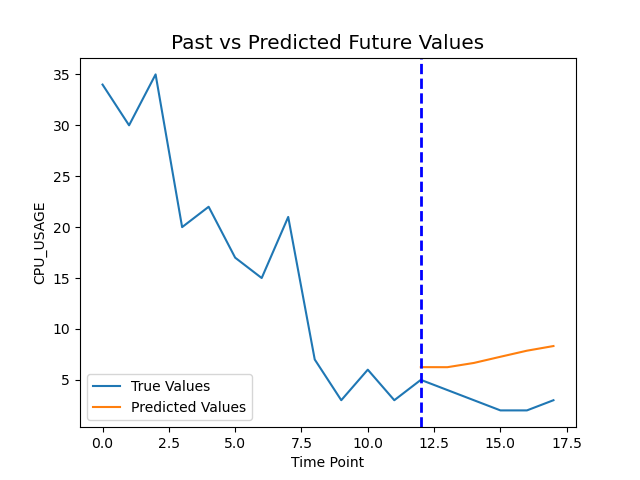
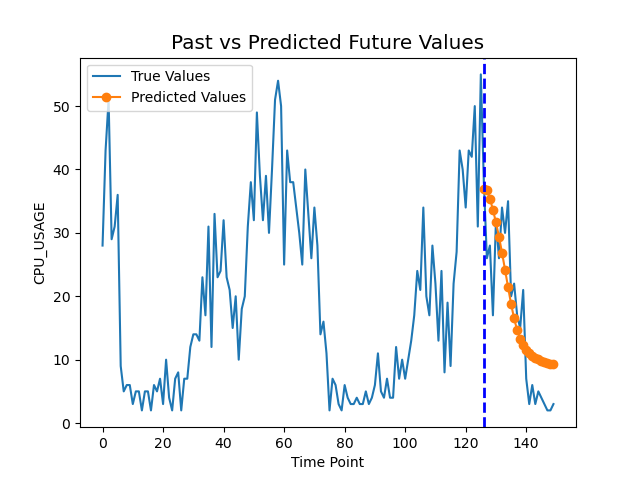
增加更好的seq2seq模型

diff --git a/exp/exp_seq2seq.py b/exp/exp_seq2seq.py
@@ -11,9 +11,10 @@ from tqdm import tqdm
 
 from data.data_loader import Dataset_Custom, Dataset_Pred
 from exp.exp_basic import Exp_Basic
-from models.seq2seq.seq2seq_net import Seq2Seq
+from models.seq2seq.en_dn_wrapper_net import EncoderDecoderWrapper
 from utils.losses import mape_loss, mase_loss, smape_loss
 from utils.metrics import metric
+from utils.plot_tools import plot_loss_data
 from utils.tools import EarlyStopping, adjust_learning_rate
 
 
@@ -23,7 +24,8 @@ class Exp_Seq2Seq(Exp_Basic):
 
     def _build_model(self):
         args = self.args
-        model = Seq2Seq(args.feature_size, args.hidden_size, args.num_layers, args.output_size)
+        model = EncoderDecoderWrapper(args.feature_size, args.output_size, args.hidden_size, args.num_layers,
+                                      args.pre_len, args.timestep)
         return model
 
     def _load_data(self):
@@ -32,7 +34,7 @@ class Exp_Seq2Seq(Exp_Basic):
             args=args,
             data_path=args.data_path,
             flag="train",
-            size=[args.timestep, args.feature_size, args.output_size],
+            size=[args.timestep, args.feature_size, args.pre_len],
             features=args.features,
             target=args.target,
             scale_type=args.scale_type,
@@ -42,7 +44,7 @@ class Exp_Seq2Seq(Exp_Basic):
             args=args,
             data_path=args.data_path,
             flag="test",
-            size=[args.timestep, args.feature_size, args.output_size],
+            size=[args.timestep, args.feature_size, args.pre_len],
             features=args.features,
             target=args.target,
             scale_type=args.scale_type,
@@ -52,7 +54,7 @@ class Exp_Seq2Seq(Exp_Basic):
             args=args,
             data_path=args.data_path,
             flag="pred",
-            size=[args.timestep, args.feature_size, args.output_size],
+            size=[args.timestep, args.feature_size, args.pre_len],
             features=args.features,
             target=args.target,
             scale_type=args.scale_type,
@@ -124,6 +126,8 @@ class Exp_Seq2Seq(Exp_Basic):
         model_optim = self._select_optimizer()
         loss_function = self._select_loss_function()
 
+        results_loss = []
+
         for epoch in range(self.args.epochs):
             iter_count = 0
             train_loss = []
@@ -134,18 +138,24 @@ class Exp_Seq2Seq(Exp_Basic):
                 iter_count += 1
 
                 model_optim.zero_grad()
+                if i == 0:
+                    print("batch_x shape: ", batch_x.shape)
+                    print("batch_y shape: ", batch_y.shape)
                 # batch_x shape: [batch_size, timestep, feature_size]
-                # batch_y shape: [batch_size, pred_len]
+                # batch_y shape: [batch_size, pred_len, 1]
                 pred, true = self._process_one_batch(train_data_set, batch_x, batch_y)
-                # pred shape: [batch_size, pred_len]
-                # true shape: [batch_size, pred_len]
+                if i == 0:
+                    print("pred shape: ", pred.shape)
+                    print("true shape: ", true.shape)
+                # pred shape: [batch_size, pred_len, 1]
+                # true shape: [batch_size, pred_len, 1]
                 loss = loss_function(pred, true)
                 train_loss.append(loss.item())
 
                 if (i + 1) % 100 == 0:
                     print("\niters: {0}, epoch: {1} | loss: {2:.7f}".format(i + 1, epoch + 1, loss.item()))
                     speed = (time.time() - time_now) / iter_count
-                    left_time = speed * ((self.args.train_epochs - epoch) * train_steps - i)
+                    left_time = speed * ((self.args.epochs - epoch) * train_steps - i)
                     print('\tspeed: {:.4f}s/iter; left time: {:.4f}s'.format(speed, left_time))
                     iter_count = 0
                     time_now = time.time()
@@ -156,6 +166,8 @@ class Exp_Seq2Seq(Exp_Basic):
             print("Epoch: {} cost time: {}".format(epoch + 1, time.time() - epoch_time))
             train_loss = np.average(train_loss)
             test_loss = self.vali(test_data_set, test_loader, loss_function)
+
+            results_loss.append(train_loss)
 
             print("Epoch: {0}, Steps: {1} | Train Loss: {2:.7f} Test Loss: {3:.7f}".format(
                 epoch + 1, train_steps, train_loss, test_loss))
@@ -171,14 +183,19 @@ class Exp_Seq2Seq(Exp_Basic):
             if hasattr(torch.cuda, 'empty_cache'):
                 torch.cuda.empty_cache()
 
+        plot_loss_data(results_loss, self.args.loss_name)
+
         best_model_path = path + '/' + 'checkpoint.pth'
         self.model.load_state_dict(torch.load(best_model_path))
 
         return self.model
 
-    def test(self, setting):
+    def test(self, setting, load=False):
         test_data_set, test_loader = self._get_data(flag='test')
-
+        if load:
+            path = os.path.join(self.args.checkpoints, setting)
+            best_model_path = path + '/' + 'checkpoint.pth'
+            self.model.load_state_dict(torch.load(best_model_path))
         self.model.eval()
 
         preds: list = []
@@ -229,15 +246,19 @@ class Exp_Seq2Seq(Exp_Basic):
         true_show_data: np.ndarray
         for i, (batch_x, batch_y) in enumerate(tqdm(pred_loader)):
             history_data: np.ndarray = pred_data.inverse_transform_y(batch_x[:, :, 0].reshape(args.timestep, 1))
+            print(history_data.shape)
             pred, true = self._process_one_batch(pred_data, batch_x, batch_y)
-            # pred.shape [batchSize=1, pre_len]
+            # pred.shape [batchSize=1, pre_len, 1]
+            pred = pred[0]
             pred = pred_data.inverse_transform_y(pred)
             # pred.shape [pre_len, 1]
+            true = true[0]
             true = pred_data.inverse_transform_y(true)
-            # print(pred)
+            # true.shape [pre_len, 1]
 
             # 真实展示的数据
-            true_show_data = np.concatenate([history_data, true], axis=0)
+            true_show_data = np.concatenate([history_data[:, -1], true[:, -1]], axis=0)
+            # true_show_data.shape [timestep+pre_len]
             break
 
         # 将预测结果导出到本地
@@ -257,8 +278,8 @@ class Exp_Seq2Seq(Exp_Basic):
             # print("pred data: \n", pred)
             plt.plot(range(len(true_show_data)), true_show_data,
                      label='True Values')
-            plt.plot(range(len(true_show_data) - args.pre_len, len(true_show_data)), pred,
-                     label='Predicted Values')
+            plt.plot(range(len(true_show_data) - args.pre_len, len(true_show_data)), pred[:, -1],
+                     marker='o', label='Predicted Values')
         else:
             print('未实现多元预测多元的可视化')
             return

diff --git a/models/seq2seq/en_dn_wrapper_net.py b/models/seq2seq/en_dn_wrapper_net.py
@@ -1,0 +1,85 @@
+import torch
+import torch.nn.functional as F
+from torch import nn
+
+
+class RNNEncoder(nn.Module):
+    def __init__(self, rnn_num_layers=1, input_feature_len=1, sequence_len=168, hidden_size=100, bidirectional=False):
+        super().__init__()
+        self.sequence_len = sequence_len
+        self.hidden_size = hidden_size
+        self.input_feature_len = input_feature_len
+        self.num_layers = rnn_num_layers
+        self.rnn_directions = 2 if bidirectional else 1
+        self.gru = nn.GRU(
+            num_layers=rnn_num_layers,
+            input_size=input_feature_len,
+            hidden_size=hidden_size,
+            batch_first=True,
+            bidirectional=bidirectional
+        )
+
+    def forward(self, input_seq):
+        ht = torch.zeros(self.num_layers * self.rnn_directions, input_seq.size(0), self.hidden_size, device='cuda')
+        if input_seq.ndim < 3:
+            input_seq.unsqueeze_(2)
+        gru_out, hidden = self.gru(input_seq, ht)
+        if self.rnn_directions > 1:
+            gru_out = gru_out.view(input_seq.size(0), self.sequence_len, self.rnn_directions, self.hidden_size)
+            gru_out = torch.sum(gru_out, axis=2)
+        return gru_out, hidden.squeeze(0)
+
+
+class AttentionDecoderCell(nn.Module):
+    def __init__(self, input_feature_len, out_put, sequence_len, hidden_size):
+        super().__init__()
+        # attention - inputs - (decoder_inputs, prev_hidden)
+        self.attention_linear = nn.Linear(hidden_size + input_feature_len, sequence_len)
+        # attention_combine - inputs - (decoder_inputs, attention * encoder_outputs)
+        self.decoder_rnn_cell = nn.GRUCell(
+            input_size=hidden_size,
+            hidden_size=hidden_size,
+        )
+        self.out = nn.Linear(hidden_size, input_feature_len)
+
+    def forward(self, encoder_output, prev_hidden, y):
+        if prev_hidden.ndimension() == 3:
+            prev_hidden = prev_hidden[-1]  # 保留最后一层的信息
+        attention_input = torch.cat((prev_hidden, y), axis=1)
+        attention_weights = F.softmax(self.attention_linear(attention_input), dim=-1).unsqueeze(1)
+        attention_combine = torch.bmm(attention_weights, encoder_output).squeeze(1)
+        rnn_hidden = self.decoder_rnn_cell(attention_combine, prev_hidden)
+        output = self.out(rnn_hidden)
+        return output, rnn_hidden
+
+
+class EncoderDecoderWrapper(nn.Module):
+    def __init__(self, input_size, output_size, hidden_size, num_layers, pred_len, window_size, teacher_forcing=0.3):
+        super().__init__()
+        self.encoder = RNNEncoder(num_layers, input_size, window_size, hidden_size)
+        self.decoder_cell = AttentionDecoderCell(input_size, output_size, window_size, hidden_size)
+        self.output_size = output_size
+        self.input_size = input_size
+        self.pred_len = pred_len
+        self.teacher_forcing = teacher_forcing
+        self.linear = nn.Linear(input_size, output_size)
+
+    def __call__(self, xb, yb=None):
+        input_seq = xb
+        encoder_output, encoder_hidden = self.encoder(input_seq)
+        prev_hidden = encoder_hidden
+        if torch.cuda.is_available():
+            outputs = torch.zeros(self.pred_len, input_seq.size(0), self.input_size, device='cuda')
+        else:
+            outputs = torch.zeros(input_seq.size(0), self.output_size)
+        y_prev = input_seq[:, -1, :]
+        for i in range(self.pred_len):
+            if (yb is not None) and (i > 0) and (torch.rand(1) < self.teacher_forcing):
+                y_prev = yb[:, i].unsqueeze(1)
+            rnn_output, prev_hidden = self.decoder_cell(encoder_output, prev_hidden, y_prev)
+            y_prev = rnn_output
+            outputs[i, :, :] = rnn_output
+        outputs = outputs.permute(1, 0, 2)
+        if self.output_size == 1:
+            outputs = self.linear(outputs)
+        return outputs

diff --git a/main_seq2seq.py b/main_seq2seq.py
@@ -3,16 +3,16 @@ from exp.exp_seq2seq import Exp_Seq2Seq
 
 class Config:
     data_path = './datasets/serverless/cached/queue_id_{}.csv'.format(36)
-    timestep = 12  # 时间步长，就是利用多少时间窗口
-    batch_size = 32  # 批次大小
+    timestep = 126  # 时间步长，就是利用多少时间窗口
+    batch_size = 16  # 批次大小
     feature_size = 7  # 每个步长对应的特征数量（跟数据集处理有关，我只保留了七个特征）
     hidden_size = 256  # 隐层大小
-    output_size = 6
-    pre_len = output_size
-    num_layers = 5  # lstm的层数
+    output_size = 1  # 只预测CPU
+    pre_len = 24  # 预测长度
+    num_layers = 1  # RNN的层数
     epochs = 100  # 迭代轮数
-    learning_rate = 0.0001  # 学习率
-    patience = 10  # 早停机制，如果损失多少个epochs没有改变就停止训练。
+    learning_rate = 0.001  # 学习率
+    patience = 30  # 早停机制，如果损失多少个epochs没有改变就停止训练。
     model_name = 'seq2seq'  # 模型名称
     features = 'MS'  # 三个选项M，MS，S。分别是多元预测多元，多元预测单元，单元预测单元
     use_gpu = True
@@ -35,10 +35,11 @@ setting = 'group_id_{}_ft{}_ts{}_fs{}_os{}'.format(config.model_name, config.fea
 exp = Exp_Seq2Seq(config)
 
 print('>>>>>>>start training : {}>>>>>>>>>>>>>>>>>>>>>>>>>>'.format(setting))
-exp.train(setting)
+# exp.train(setting)
 
 print('>>>>>>>testing : {}<<<<<<<<<<<<<<<<<<<<<<<<<<<<<<<<<'.format(setting))
-exp.test(setting)
+# exp.test(setting)
+exp.test(setting, load=True)
 
 print('>>>>>>>predicting : {}<<<<<<<<<<<<<<<<<<<<<<<<<<<<<<<<<'.format(setting))
 exp.predict(setting, load=True)

diff --git a/data/data_loader.py b/data/data_loader.py
@@ -115,10 +115,10 @@ class Dataset_Custom(Dataset):
 
         # 划分训练集、测试集
         x_train = dataX[: train_size, :].reshape(-1, timestep, feature_size)
-        y_train = dataY[: train_size].reshape(-1, output_size)
+        y_train = dataY[: train_size].reshape(-1, output_size, 1)
 
         x_test = dataX[train_size:, :].reshape(-1, timestep, feature_size)
-        y_test = dataY[train_size:].reshape(-1, output_size)
+        y_test = dataY[train_size:].reshape(-1, output_size, 1)
 
         # 将数据转为tensor
         x_train_tensor = torch.from_numpy(x_train).to(torch.float32)
@@ -227,10 +227,11 @@ class Dataset_Pred(Dataset):
 
     def inverse_transform(self, data):
         if torch.is_tensor(data):
-            data = data.cpu().detach().numpy().reshape(-1, 1)
+            data = data.cpu().detach().numpy()
         return self.scaler_model.inverse_transform(data)
 
     def inverse_transform_y(self, data):
         if torch.is_tensor(data):
-            data = data.cpu().detach().numpy().reshape(-1, 1)
+            # data = data.cpu().detach().numpy().reshape(-1, 1)
+            data = data.cpu().detach().numpy()
         return self.scaler.inverse_transform(data)

diff --git a/utils/plot_tools.py b/utils/plot_tools.py
@@ -1,0 +1,16 @@
+from matplotlib import pyplot as plt
+
+
+def plot_loss_data(data, loss_name):
+    # 使用Matplotlib绘制线图
+    plt.figure()
+    plt.figure(figsize=(10, 5))
+    plt.plot(data, marker='o', label="{}".format(loss_name))
+
+    # 添加标题
+    plt.title("loss results Plot")
+
+    # 显示图例
+    plt.legend()
+
+    plt.show()
